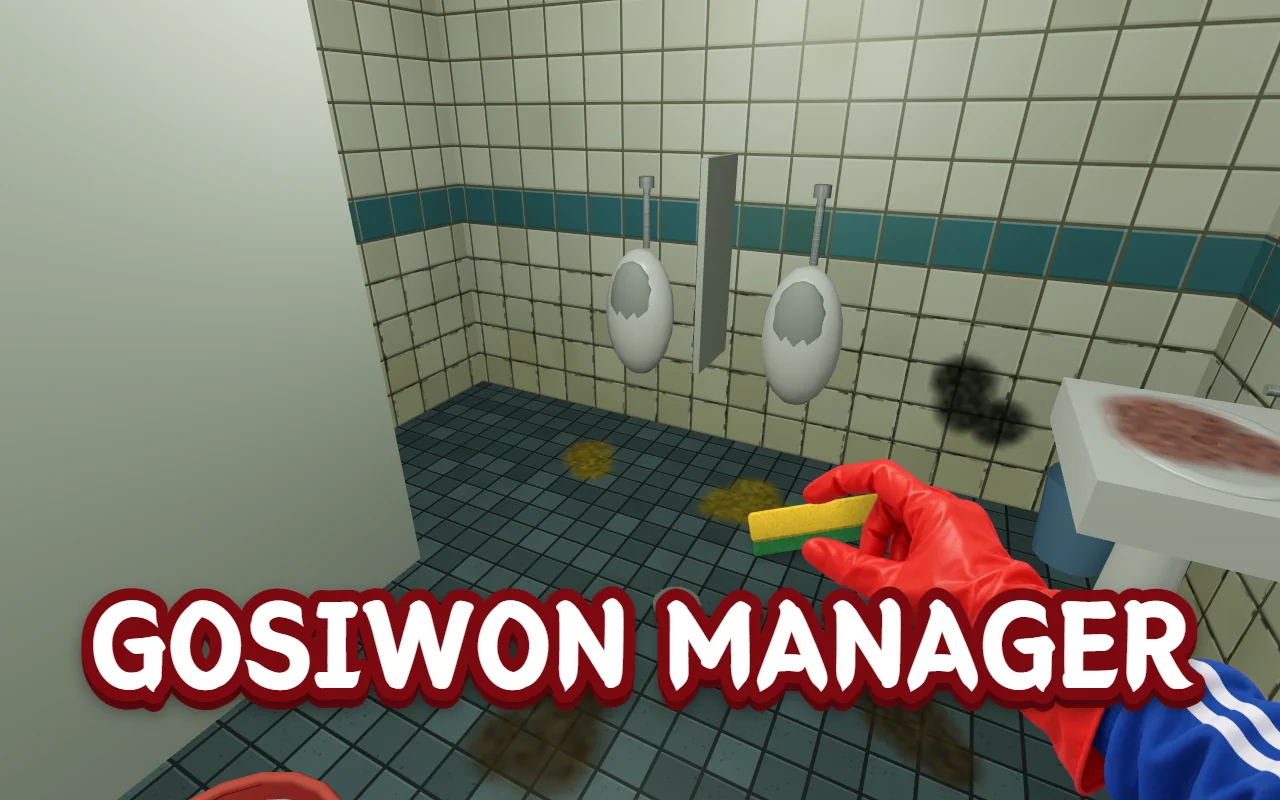
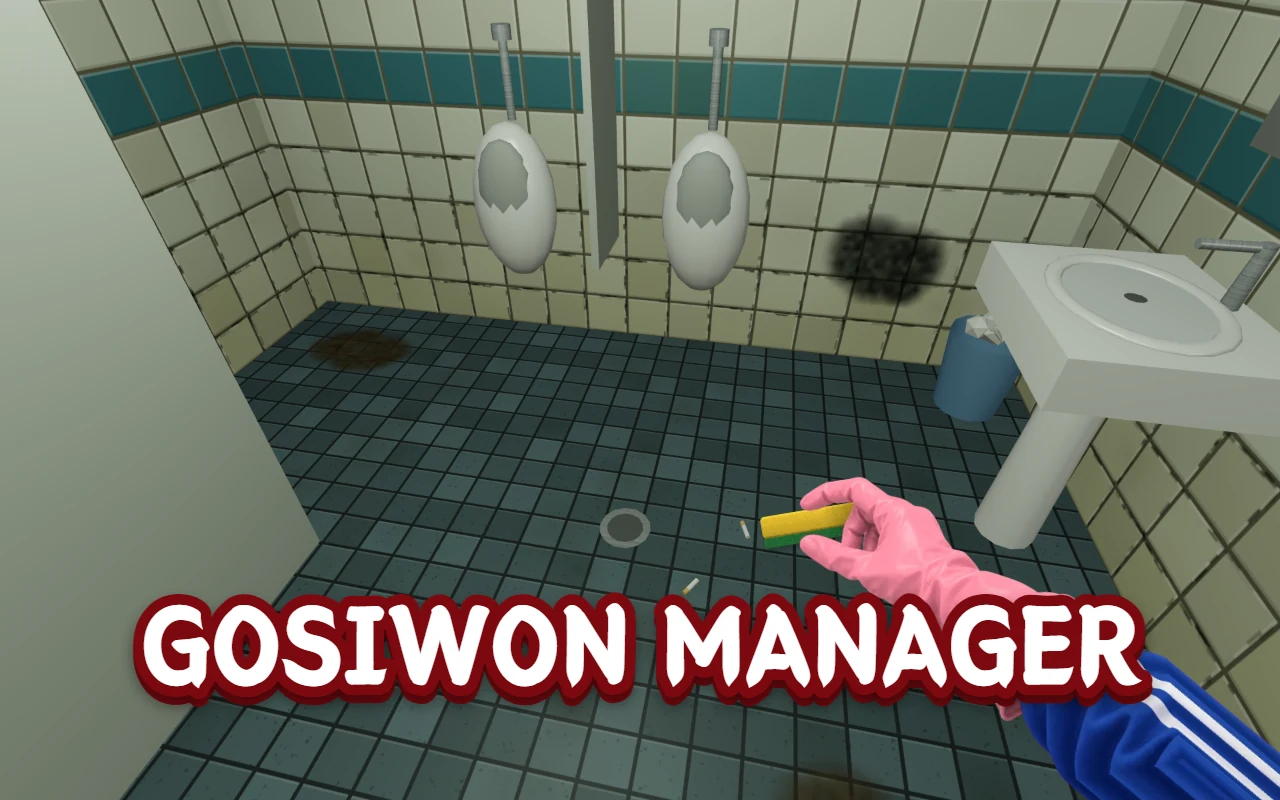
고시원 총무: 카드 그림 한·영을 분홍 고무장갑으로 새로 찍어 교체(?v=2) (사장님 10/5 "게임 카드도 핑크 장갑으로" "새로 캡쳐해서 올리면 되자나")

diff --git a/games/gosiwon/index.html b/games/gosiwon/index.html
@@ -166,7 +166,7 @@
   <section class="showcase">
     <div class="wrap game-page">
       <a class="backlink" href="/games/">← 무료게임 목록</a>
-      <div class="gp-shot"><img src="/assets/gosiwon-shot.webp?v=1" alt="고시원 남자 화장실에서 빨간 고무장갑을 낀 손이 수세미를 들고 있고 바닥과 벽에 때가 있다. 아래에 고시원 총무 제목" width="1280" height="800"></div>
+      <div class="gp-shot"><img src="/assets/gosiwon-shot.webp?v=2" alt="고시원 남자 화장실에서 빨간 고무장갑을 낀 손이 수세미를 들고 있고 바닥과 벽에 때가 있다. 아래에 고시원 총무 제목" width="1280" height="800"></div>
       <h1>고시원 총무</h1>
       <p class="gp-cta"><a class="btn btn-primary" href="play/?v=20261004">🎮 바로 플레이</a></p>
       <p class="gp-line">고시원 총무는 총무가 되어 화장실과 주방을 청소하고, 남는 시간에 공부해 30일 뒤 합격을 노리는 1인칭 3D 무료 웹게임입니다. 설치 없이 브라우저에서 바로 시작합니다.</p>

diff --git a/en/games/gosiwon/index.html b/en/games/gosiwon/index.html
@@ -166,7 +166,7 @@
   <section class="showcase">
     <div class="wrap game-page">
       <a class="backlink" href="/en/games/">← All games</a>
-      <div class="gp-shot"><img src="/assets/gosiwon-shot-en.webp?v=1" alt="A red rubber-gloved hand holding a sponge in a dorm men&#x27;s restroom with stains on the floor and walls, under the title GOSIWON MANAGER" width="1280" height="800"></div>
+      <div class="gp-shot"><img src="/assets/gosiwon-shot-en.webp?v=2" alt="A red rubber-gloved hand holding a sponge in a dorm men&#x27;s restroom with stains on the floor and walls, under the title GOSIWON MANAGER" width="1280" height="800"></div>
       <h1>Gosiwon Manager</h1>
       <p class="gp-cta"><a class="btn btn-primary" href="/games/gosiwon/play/?lang=en&amp;v=20261004">🎮 Play now</a></p>
       <p class="gp-line">Gosiwon Manager is a free first-person 3D game where you clean the restrooms and kitchen of a Korean study dorm and study in your free time to pass an exam in 30 days. No download, it starts right in your browser.</p>

diff --git a/index.html b/index.html
@@ -1591,7 +1591,7 @@
           <span class="mbody"><b>새우잡이배</b><i>탈출게임 어드벤처게임</i></span>
         </a>
         <a class="mini" href="/games/gosiwon/">
-          <span class="shot"><img src="/assets/gosiwon-shot.webp?v=1" alt="고시원 남자 화장실에서 빨간 고무장갑을 낀 손이 수세미를 들고 있고 바닥과 벽에 때가 있다. 아래에 고시원 총무 제목" width="800" height="500" loading="lazy"></span>
+          <span class="shot"><img src="/assets/gosiwon-shot.webp?v=2" alt="고시원 남자 화장실에서 빨간 고무장갑을 낀 손이 수세미를 들고 있고 바닥과 벽에 때가 있다. 아래에 고시원 총무 제목" width="800" height="500" loading="lazy"></span>
           <span class="mbody"><b>고시원 총무</b><i>청소게임 시뮬레이션게임</i></span>
         </a>
         <a class="mini" href="/games/mini/surf/">

diff --git a/games/index.html b/games/index.html
@@ -94,7 +94,7 @@
           <span class="mbody"><b>새우잡이배</b><i>탈출게임 어드벤처게임</i></span>
         </a>
         <a class="mini" href="/games/gosiwon/">
-          <span class="shot"><img src="/assets/gosiwon-shot.webp?v=1" alt="고시원 남자 화장실에서 빨간 고무장갑을 낀 손이 수세미를 들고 있고 바닥과 벽에 때가 있다. 아래에 고시원 총무 제목" width="800" height="500" loading="lazy"></span>
+          <span class="shot"><img src="/assets/gosiwon-shot.webp?v=2" alt="고시원 남자 화장실에서 빨간 고무장갑을 낀 손이 수세미를 들고 있고 바닥과 벽에 때가 있다. 아래에 고시원 총무 제목" width="800" height="500" loading="lazy"></span>
           <span class="mbody"><b>고시원 총무</b><i>청소게임 시뮬레이션게임</i></span>
         </a>
         <a class="mini" href="/games/frost/">

diff --git a/en/index.html b/en/index.html
@@ -1553,7 +1553,7 @@
           <span class="mbody"><b>SHRIMP BOAT</b><i>Escape game, adventure game</i></span>
         </a>
         <a class="mini" href="/en/games/gosiwon/">
-          <span class="shot"><img src="/assets/gosiwon-shot-en.webp?v=1" alt="A red rubber-gloved hand holding a sponge in a dorm men's restroom with stains on the floor and walls, under the title GOSIWON MANAGER" width="800" height="500" loading="lazy"></span>
+          <span class="shot"><img src="/assets/gosiwon-shot-en.webp?v=2" alt="A red rubber-gloved hand holding a sponge in a dorm men's restroom with stains on the floor and walls, under the title GOSIWON MANAGER" width="800" height="500" loading="lazy"></span>
           <span class="mbody"><b>GOSIWON MANAGER</b><i>Cleaning game, simulation game</i></span>
         </a>
         <a class="mini" href="/en/games/mini/surf/">

diff --git a/en/games/index.html b/en/games/index.html
@@ -91,7 +91,7 @@
           <span class="mbody"><b>SHRIMP BOAT</b><i>Escape game, adventure game</i></span>
         </a>
         <a class="mini" href="/en/games/gosiwon/">
-          <span class="shot"><img src="/assets/gosiwon-shot-en.webp?v=1" alt="A red rubber-gloved hand holding a sponge in a dorm men's restroom with stains on the floor and walls, under the title GOSIWON MANAGER" width="800" height="500" loading="lazy"></span>
+          <span class="shot"><img src="/assets/gosiwon-shot-en.webp?v=2" alt="A red rubber-gloved hand holding a sponge in a dorm men's restroom with stains on the floor and walls, under the title GOSIWON MANAGER" width="800" height="500" loading="lazy"></span>
           <span class="mbody"><b>GOSIWON MANAGER</b><i>Cleaning game, simulation game</i></span>
         </a>
         <a class="mini" href="/en/games/frost/">
